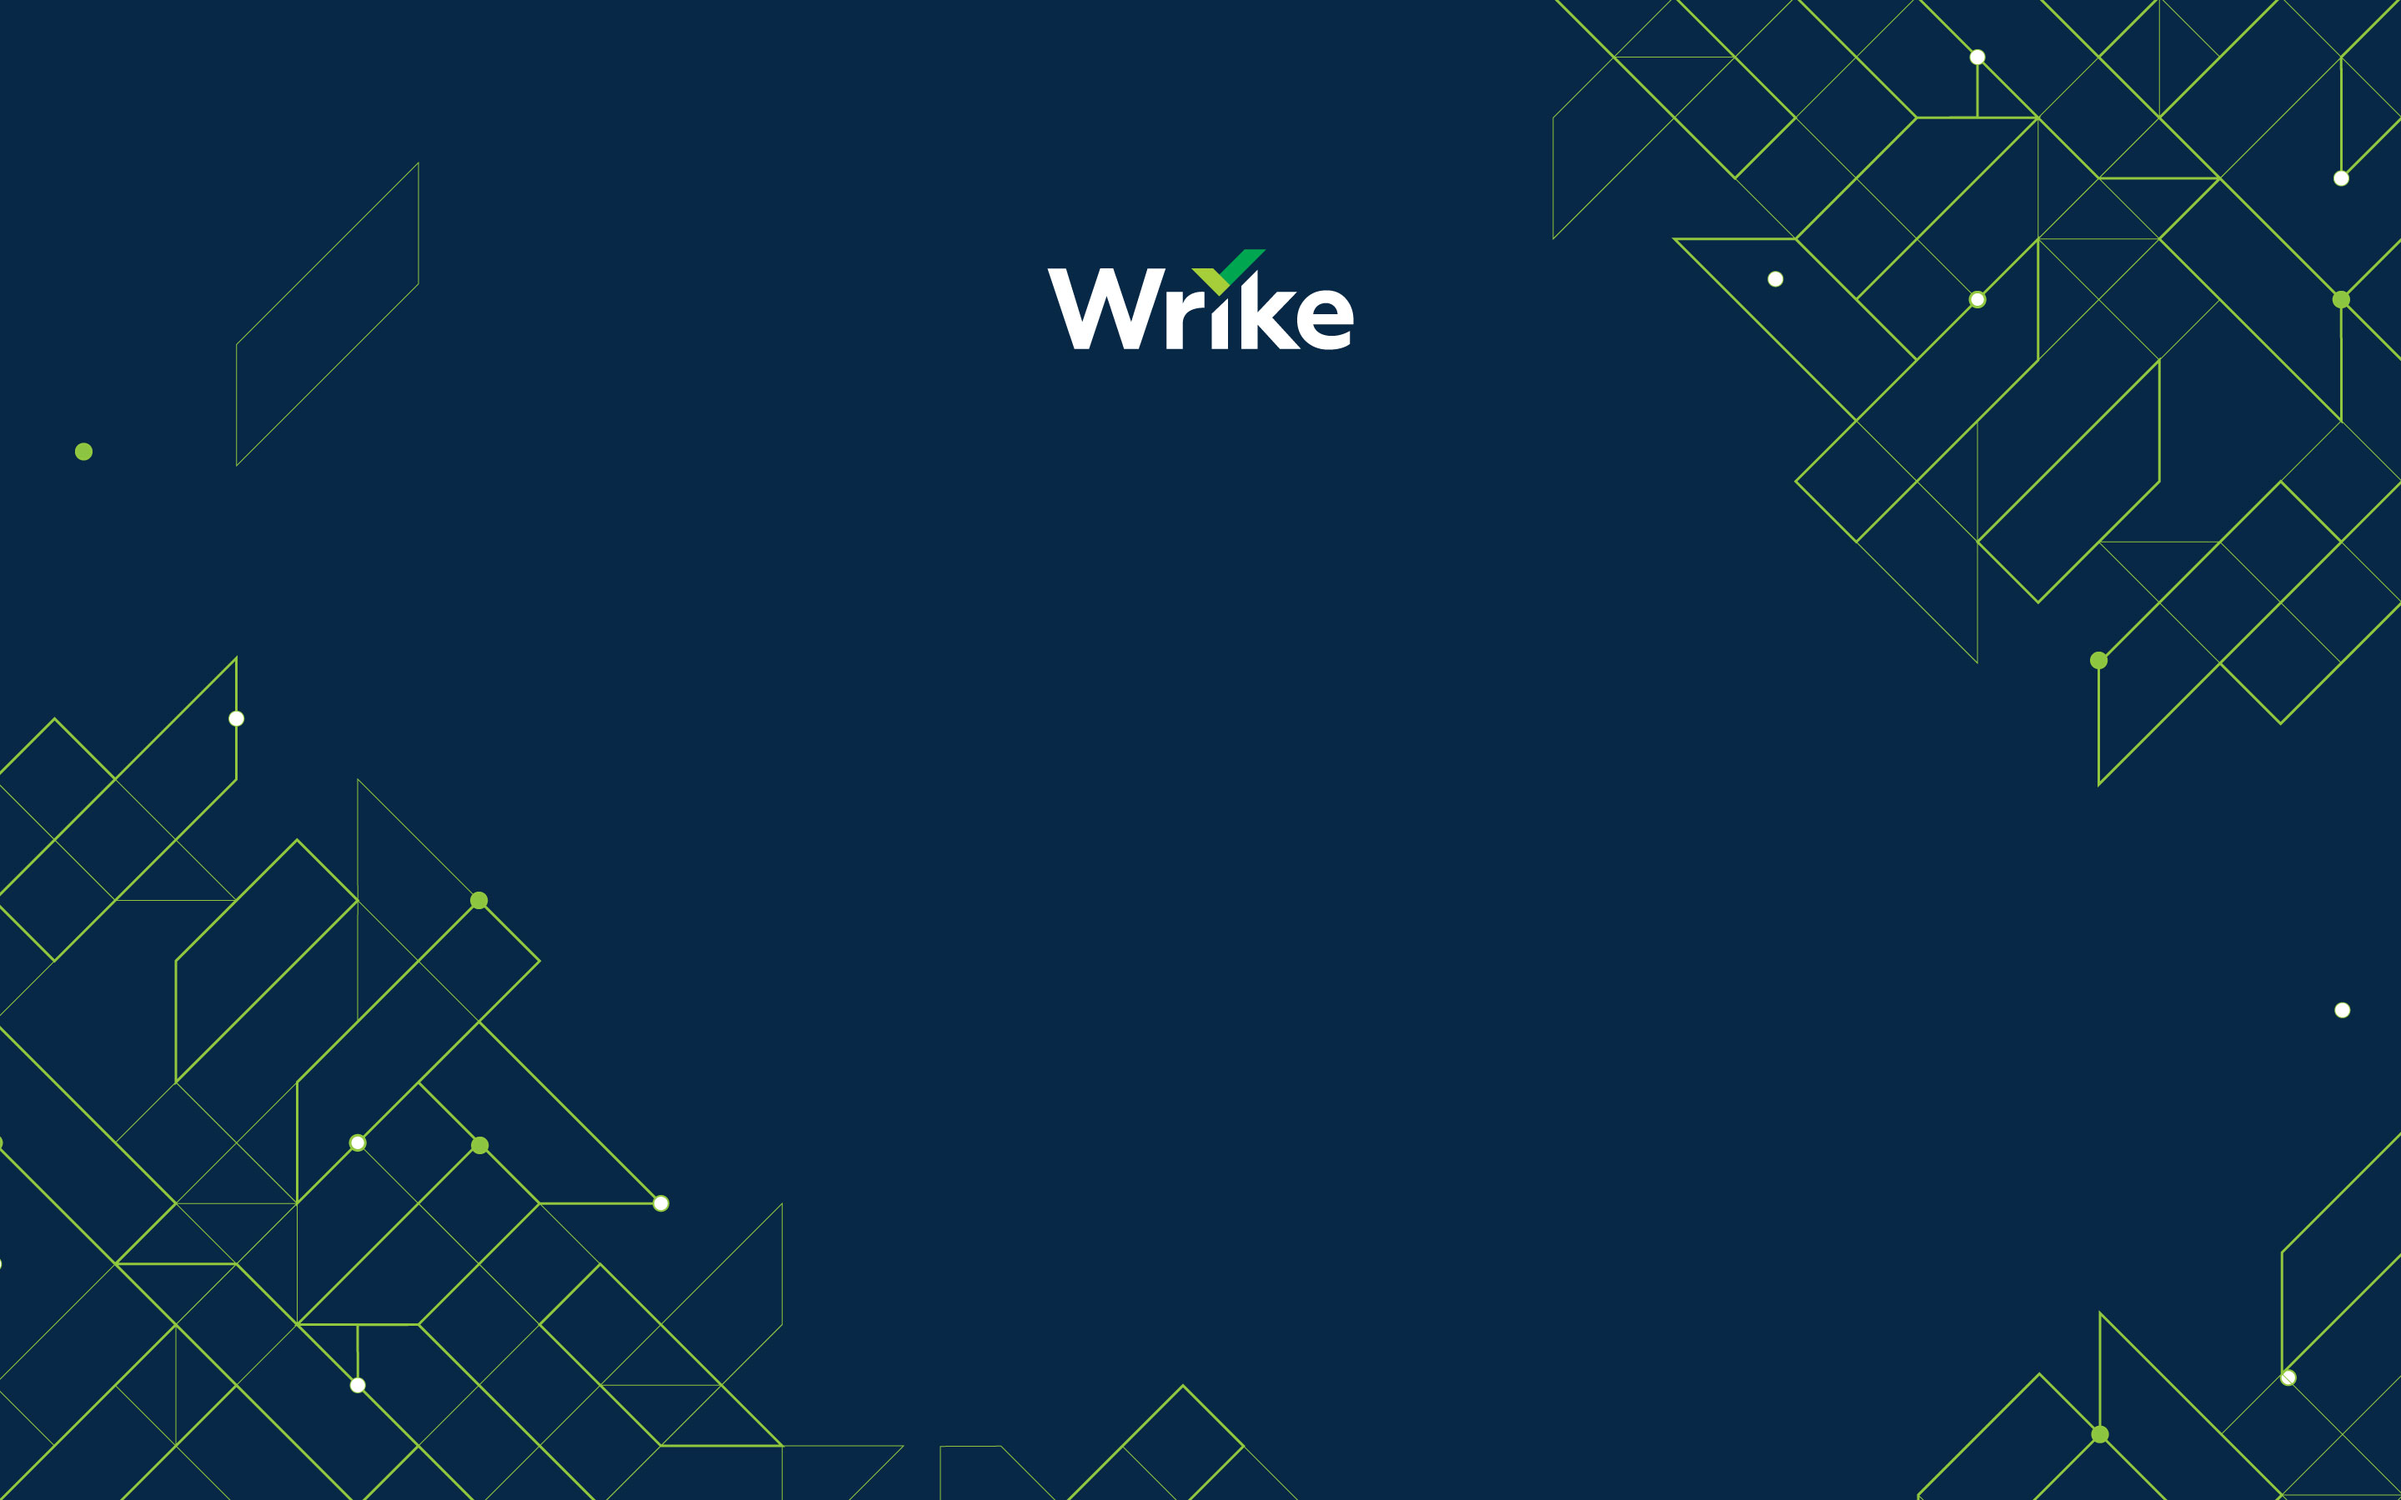
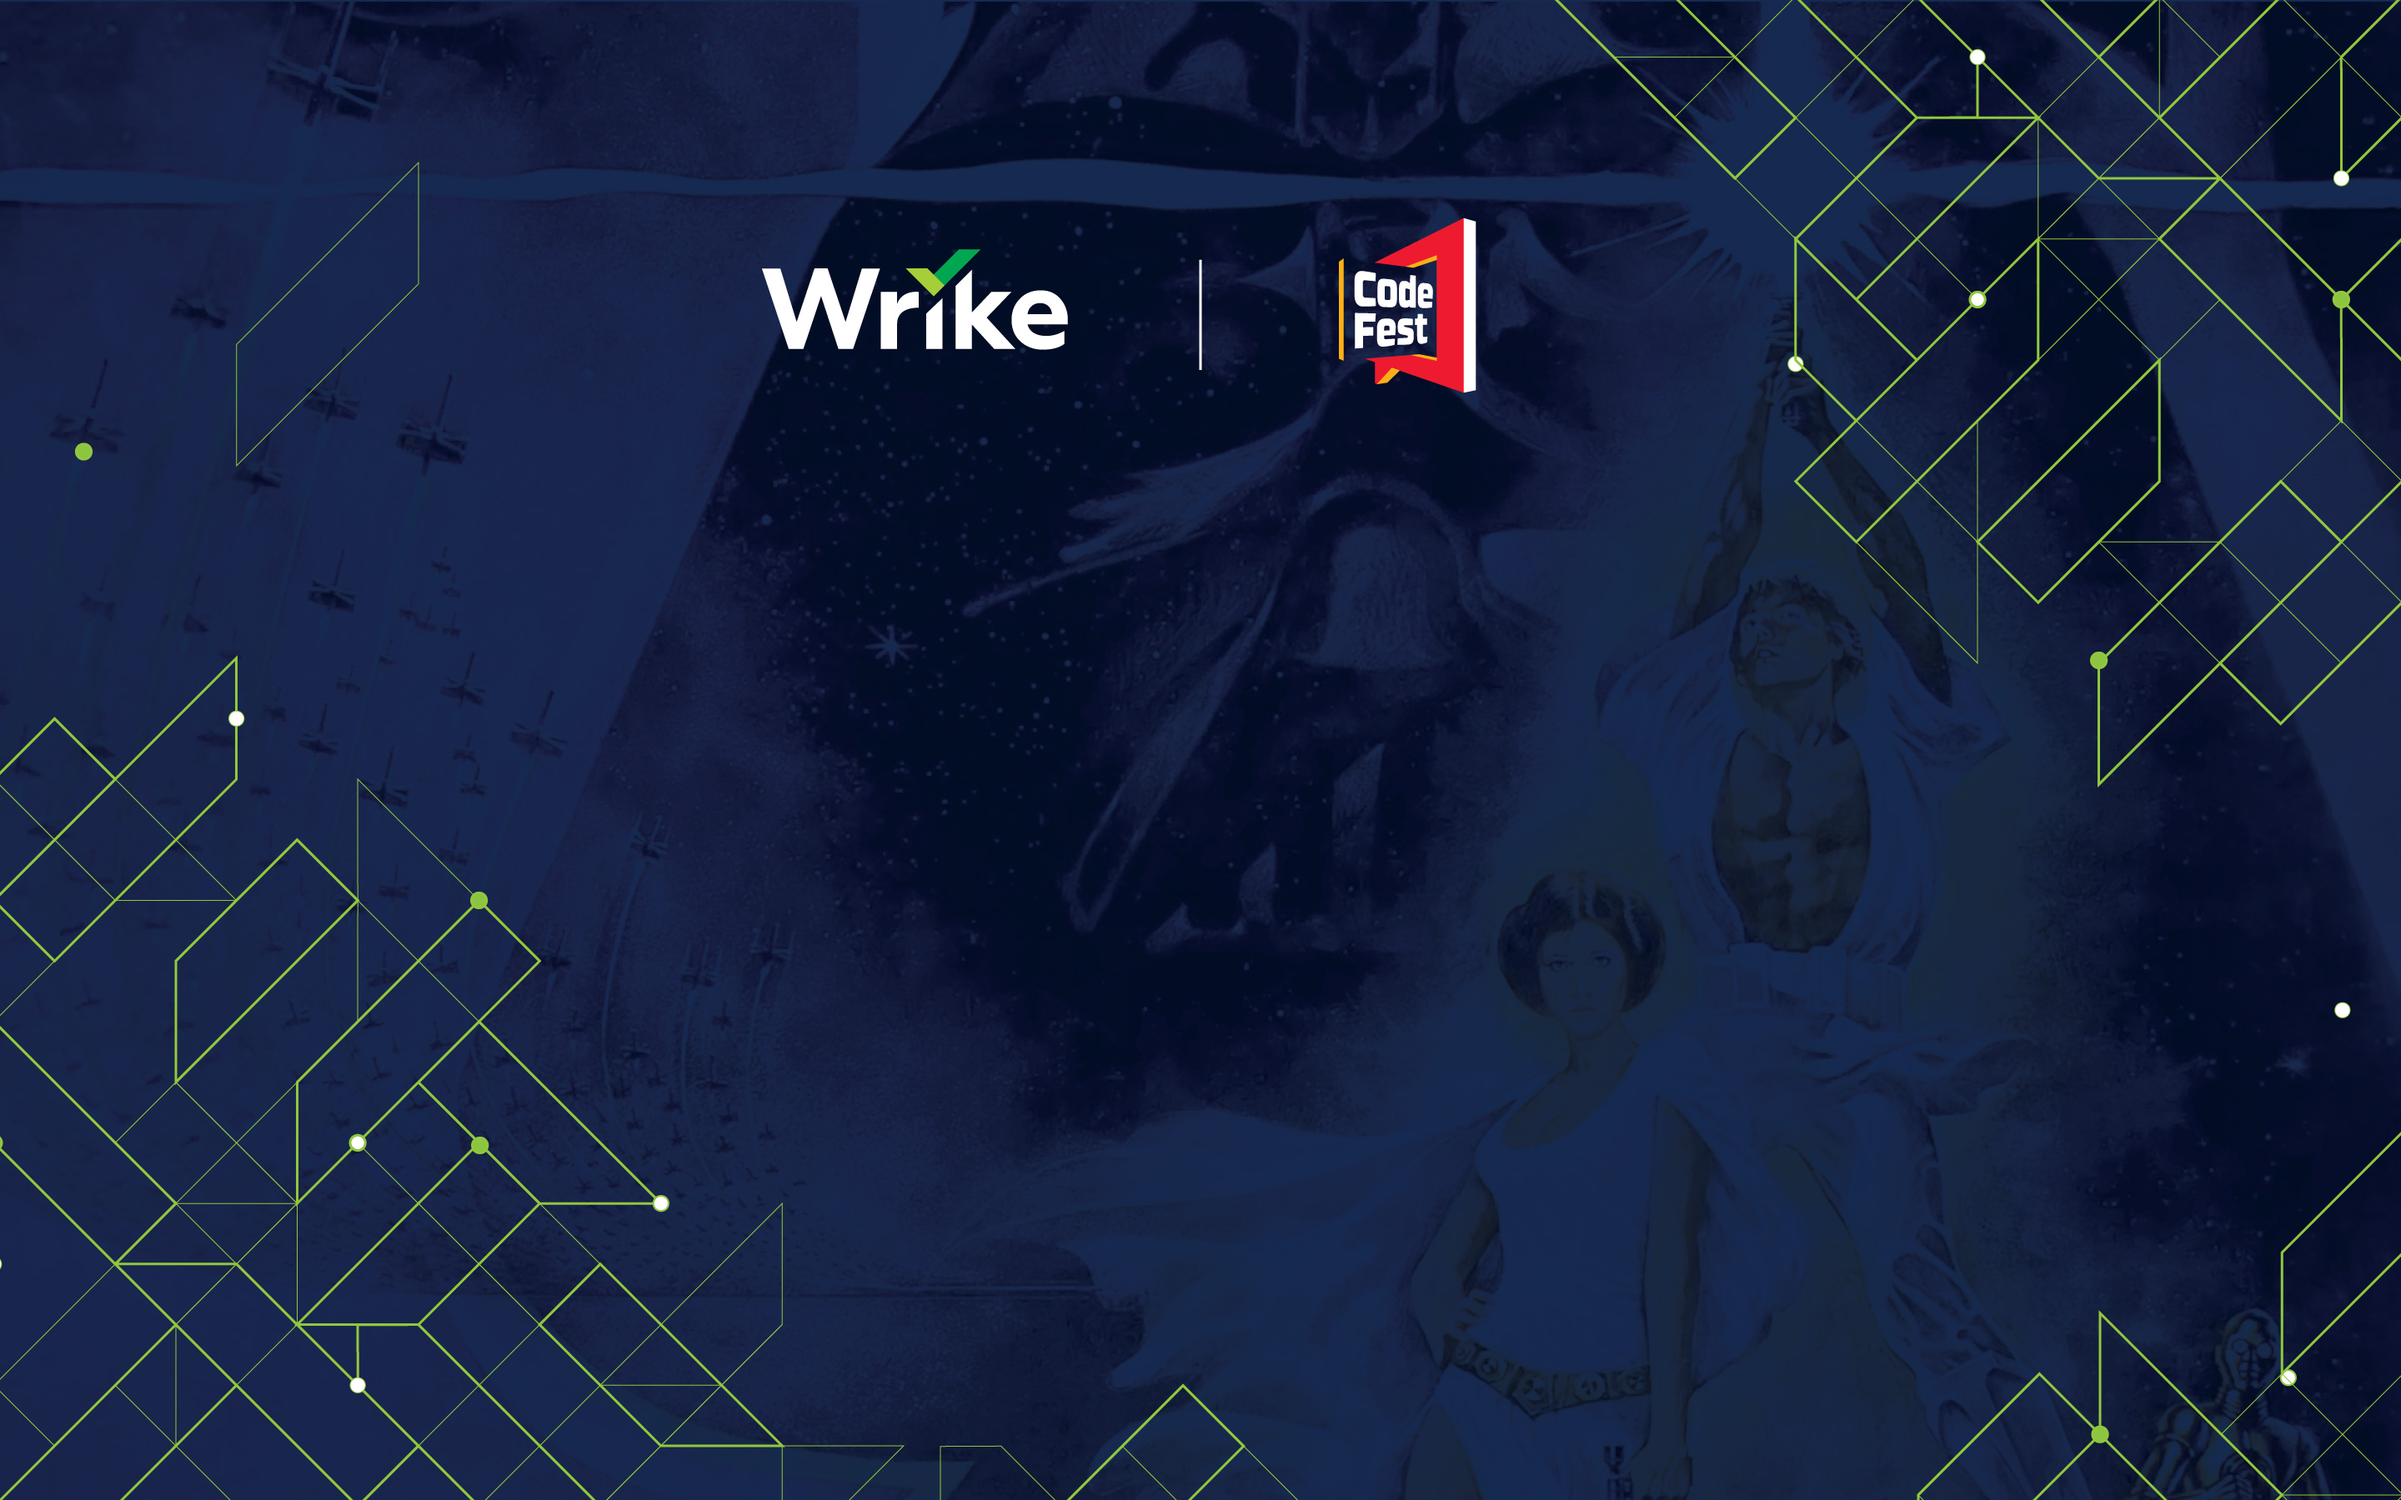
First slide

diff --git a/index.html b/index.html
@@ -48,10 +48,10 @@
     <div class="slides">
 
         <section data-background="img/wrike-bg.jpg">
-            <h1>Angular 2</h1>
-            <h3>Новая надежда</h3>
+            <h2 style="padding-top: 100px">Angular 2</h2>
+            <h2 style="letter-spacing: 2px">Новая надежда</h2>
+            <br><br><br>
             <h4>Евгений Гусев</h4>
-            <img src="img/codefest-logo.png" class="plain" style="width: 70px"/>
         </section>
 
         <section>
